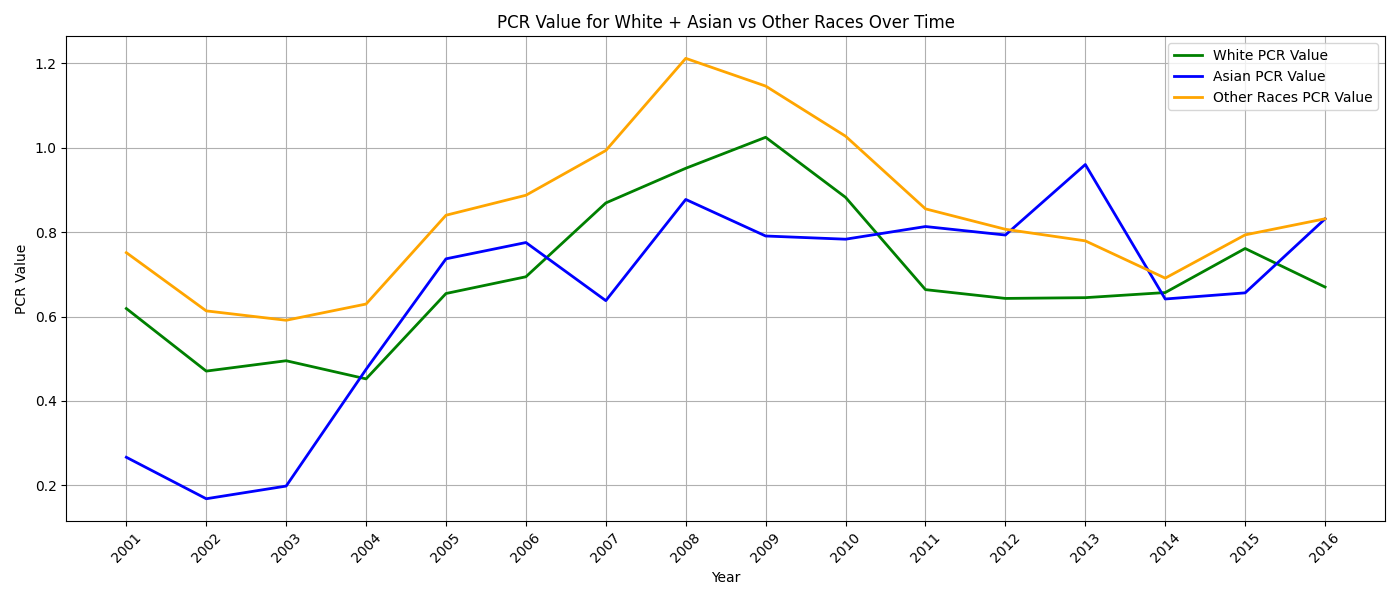
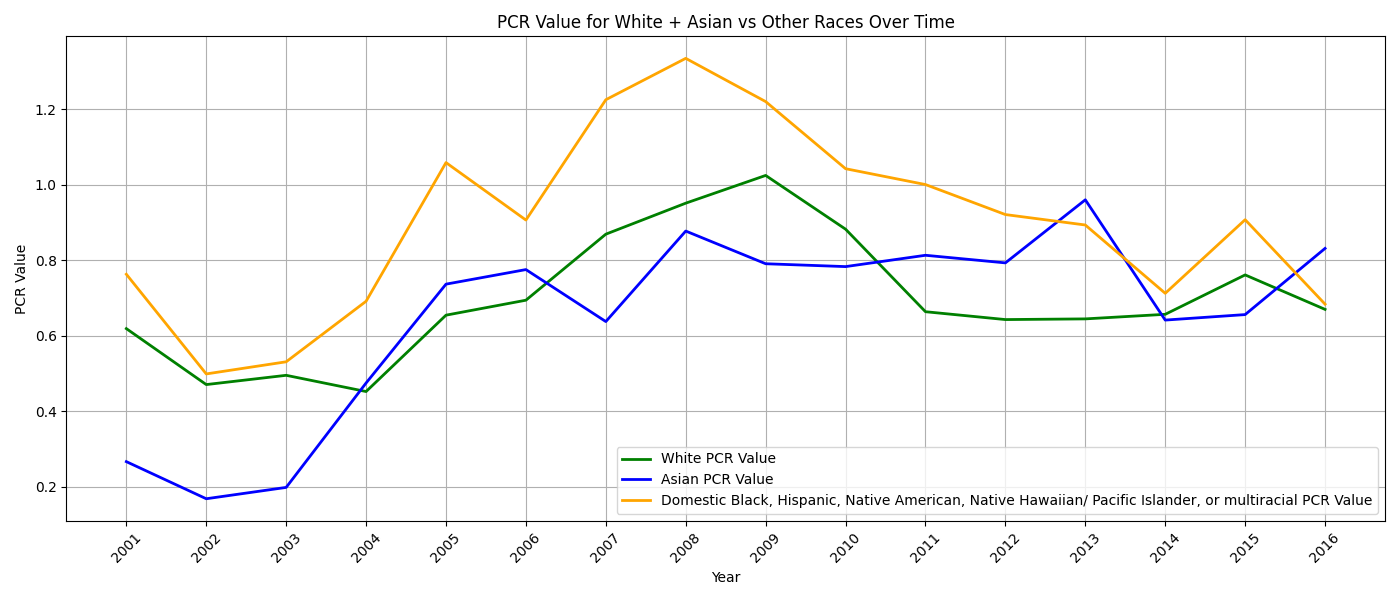
Fixed graph names and  fixed graphical issue with graphs

diff --git a/EXCEL CLEANER/PhD award v2.py b/EXCEL CLEANER/PhD award v2.py
@@ -19,7 +19,7 @@ unitid_list = [
     194824, 196130, 196097, 199102, 199120, 199847, 200280, 201885,
     203517, 204857, 206084, 207388, 209542, 209551, 209807, 211273,
     211440, 213543, 214777, 215293, 227757, 230728, 232982, 233921,
-    234076, 231624, 236948, 240444
+    234076, 231624, 236948, 240444#
 ]
 
 # Filter by AWLEVEL and UNITID
@@ -31,7 +31,7 @@ filtered_df = df_trimmed[df_trimmed['AWLEVEL'] == 17][[
     'dr_ft_men_all_races_v', 'dr_ft_wmen_all_races_v', 'dr_ft_tot_all_races_v',
     'ma_ft_frst_tot_all_races_v', 'dr_ft_frst_tot_all_races_v', 
 
-    #Gender Breakdown- First time enrollment 
+    #Sex Breakdown- First time enrollment 
     'ft_frst_men_all_races_v', 'ft_frst_wmen_all_races_v',
      
      # Racial/Ethnic breakdowns - Total Enrollment
@@ -155,7 +155,7 @@ print(average_PCR)
 ax.set_xticks(range(2000, 2017))
 ax.set_xticklabels(range(2000, 2017), rotation=45)
 
-
+'''
 # Move the legend outside the plot and scale it down
 ax.legend(
     loc='center left', 
@@ -164,7 +164,7 @@ ax.legend(
     ncol=3,  # Multiple columns for compactness
     title='UNITIDs'
 )
-
+'''
 
 # Titles and labels
 ax.set_title('PCR Value over Years')
@@ -173,7 +173,8 @@ ax.set_ylabel('PCR Value')
 ax.grid(True)
 
 # Adjust layout to prevent overlapping
-plt.tight_layout(rect=[0, 0, 0.85, 1])  # Add space on the right for the legend
+# plt.tight_layout(rect=[0, 0, 0.85, 1])  # Add space on the right for the legend
+plt.tight_layout()
 plt.savefig('/Users/co25936/Desktop/PER/IPEDS/PCR_Value.png')
 plt.show()
 
@@ -212,7 +213,8 @@ ax.set_ylabel('Retention')
 ax.grid(True)
 
 # Adjust layout to prevent overlapping
-plt.tight_layout(rect=[0, 0, 0.85, 1])  # Add space on the right for the legend
+# plt.tight_layout(rect=[0, 0, 0.85, 1])  # Add space on the right for the legend
+plt.tight_layout()
 plt.savefig('/Users/co25936/Desktop/PER/IPEDS/Retention_Value.png')
 plt.show()
 
@@ -230,7 +232,7 @@ for index, row in complete_df.iterrows():
     year = row['Year']
     unitid = row['UNITID']
 
-    # Graduation by gender
+    # Graduation by sex
     grad_m_5 = safe_extract(complete_df[(complete_df['UNITID'] == unitid) & (complete_df['Year'] == year + 5)]['CTOTALM'].values)
     grad_m_6 = safe_extract(complete_df[(complete_df['UNITID'] == unitid) & (complete_df['Year'] == year + 6)]['CTOTALM'].values)
     grad_m_7 = safe_extract(complete_df[(complete_df['UNITID'] == unitid) & (complete_df['Year'] == year + 7)]['CTOTALM'].values)
@@ -239,7 +241,7 @@ for index, row in complete_df.iterrows():
     grad_f_6 = safe_extract(complete_df[(complete_df['UNITID'] == unitid) & (complete_df['Year'] == year + 6)]['CTOTALW'].values)
     grad_f_7 = safe_extract(complete_df[(complete_df['UNITID'] == unitid) & (complete_df['Year'] == year + 7)]['CTOTALW'].values)
 
-    # First-year full-time enrollment by gender
+    # First-year full-time enrollment by sex
     first_m1_m = safe_extract(complete_df[(complete_df['UNITID'] == unitid) & (complete_df['Year'] == year - 1)]['ft_frst_men_all_races_v'].values)
     first_m_m = safe_extract(complete_df[(complete_df['UNITID'] == unitid) & (complete_df['Year'] == year)]['ft_frst_men_all_races_v'].values)
     first_p1_m = safe_extract(complete_df[(complete_df['UNITID'] == unitid) & (complete_df['Year'] == year + 1)]['ft_frst_men_all_races_v'].values)
@@ -280,7 +282,7 @@ ax.plot(avg_PCR_female.index, avg_PCR_female.values, label='Female PCR Value', c
 ax.set_xticks(range(2001, 2017))
 ax.set_xticklabels(range(2001, 2017), rotation=45)
 
-ax.set_title("PCR Value by Gender Over Time")
+ax.set_title("PCR Value by Sex Over Time")
 ax.set_xlabel("Year")
 ax.set_ylabel("PCR Value")
 ax.grid(True)
@@ -352,20 +354,20 @@ plt.savefig('/Users/co25936/Desktop/PER/IPEDS/PCR_Value_Doctoral.png')
 plt.show()
 
 
-# --- 3. MASTER'S VS DOCTORAL DEGREE BY GENDER (2017+) ---
+# --- 3. MASTER'S VS DOCTORAL DEGREE BY Sex (2017+) ---
 
 # Filter for 2017 and beyond
-grad_gender_df = df[(df['Year'] >= 2017)]
+grad_sex_df = df[(df['Year'] >= 2017)]
 
 # Group by year and sum across institutions
-grouped = grad_gender_df.groupby('Year').agg({
+grouped = grad_sex_df.groupby('Year').agg({
     'ma_ft_men_all_races_v': 'sum',
     'ma_ft_wmen_all_races_v': 'sum',
     'dr_ft_men_all_races_v': 'sum',
     'dr_ft_wmen_all_races_v': 'sum'
 }).reset_index()
 
-# --- PLOT: Master vs Doctor by Gender ---
+# --- PLOT: Master vs Doctor by Sex ---
 
 fig, ax = plt.subplots(figsize=(14, 6))
 
@@ -374,21 +376,21 @@ ax.plot(grouped['Year'], grouped['ma_ft_wmen_all_races_v'], label='Masters Women
 ax.plot(grouped['Year'], grouped['dr_ft_men_all_races_v'], label='Doctoral Men', color='green', marker='x')
 ax.plot(grouped['Year'], grouped['dr_ft_wmen_all_races_v'], label='Doctoral Women', color='orange', marker='x')
 
-ax.set_title("Graduate Enrollment by Gender and Degree Level (2017+)")
+ax.set_title("Graduate Enrollment by Sex and Degree Level (2017+)")
 ax.set_xlabel("Year")
 ax.set_ylabel("Number of Students")
 ax.legend()
 ax.grid(True)
 
 plt.tight_layout()
-plt.savefig('/Users/co25936/Desktop/PER/IPEDS/Grad_Enrollment_By_Gender_And_Degree.png')
+plt.savefig('/Users/co25936/Desktop/PER/IPEDS/Grad_Enrollment_By_Sex_And_Degree.png')
 plt.show()
 
 
 # --- 4. PCR VALUES FOR RACE ---
 # White vs Non-white (separated by graduation rates)
 
-# newer version that might work better (FIXES RACE PCR VALUES BUT CHANGES PREVIOUS PCR VALUES FOR GENDERg)
+# newer version that might work better (FIXES RACE PCR VALUES BUT CHANGES PREVIOUS PCR VALUES FOR SEX)
 def safe_extract(arr):
     return arr[0] if len(arr) > 0 and not pd.isna(arr[0]) else 0
 
@@ -601,8 +603,150 @@ ax.grid(True)
 ax.legend()
 
 plt.tight_layout()
-plt.savefig('/Users/co25936/Desktop/PER/IPEDS/PCR_Value_White_Asian_vs_Other.png')
+plt.savefig('/Users/co25936/Desktop/PER/IPEDS/PCR_Value_White_Asian_vs_Non_resident_and_other_domestic_racial_groups.png')
 plt.show()
+
+# PCR VALUE FOR WHITE, ASIAN vs OTHER minus Non-RESIDENT
+complete_df['PCR_value_white_asian'] = np.nan
+complete_df['PCR_value_white'] = np.nan
+complete_df['PCR_value_asian'] = np.nan
+complete_df['PCR_value_other_races'] = np.nan
+
+for index, row in complete_df.iterrows():
+    year = row['Year']
+    unitid = row['UNITID']
+    
+    # White first-time full-time enrollment (3-year window)
+    white_m1 = safe_extract(complete_df[(complete_df['UNITID'] == unitid) & (complete_df['Year'] == year - 1)]['ft_frst_tot_white_v'].values)
+    white_0  = safe_extract(complete_df[(complete_df['UNITID'] == unitid) & (complete_df['Year'] == year)]['ft_frst_tot_white_v'].values)
+    white_p1 = safe_extract(complete_df[(complete_df['UNITID'] == unitid) & (complete_df['Year'] == year + 1)]['ft_frst_tot_white_v'].values)
+
+    # Asian full time enrollment 
+    asian_m1 = safe_extract(complete_df[(complete_df['UNITID'] == unitid) & (complete_df['Year'] == year - 1)]['ft_frst_tot_asian_v'].values)
+    asian_0  = safe_extract(complete_df[(complete_df['UNITID'] == unitid) & (complete_df['Year'] == year)]['ft_frst_tot_asian_v'].values)
+    asian_p1 = safe_extract(complete_df[(complete_df['UNITID'] == unitid) & (complete_df['Year'] == year + 1)]['ft_frst_tot_asian_v'].values)
+
+    #non resident full time enrollment
+    non_res_m1 = safe_extract(complete_df[(complete_df['UNITID'] == unitid) & (complete_df['Year'] == year - 1)]['ft_frst_tot_forgn_v'].values)
+    non_res_0 = safe_extract(complete_df[(complete_df['UNITID'] == unitid) & (complete_df['Year'] == year)]['ft_frst_tot_forgn_v'].values)
+    non_res_p1 = safe_extract(complete_df[(complete_df['UNITID'] == unitid) & (complete_df['Year'] == year + 1)]['ft_frst_tot_forgn_v'].values)
+
+    # Other races first-time full-time = total - white - asian
+    total_m1 = safe_extract(complete_df[(complete_df['UNITID'] == unitid) & (complete_df['Year'] == year - 1)]['ft_frst_tot_all_races_v'].values)
+    total_0  = safe_extract(complete_df[(complete_df['UNITID'] == unitid) & (complete_df['Year'] == year)]['ft_frst_tot_all_races_v'].values)
+    total_p1 = safe_extract(complete_df[(complete_df['UNITID'] == unitid) & (complete_df['Year'] == year + 1)]['ft_frst_tot_all_races_v'].values)
+
+    other_races_m1 = total_m1 - (white_m1+asian_m1+non_res_m1) if pd.notna(total_m1) and pd.notna(white_m1) else np.nan
+    other_races_0  = total_0  - (white_0+asian_0+non_res_0)  if pd.notna(total_0)  and pd.notna(white_0)  else np.nan
+    other_races_p1 = total_p1 - (white_p1+asian_p1+non_res_p1) if pd.notna(total_p1) and pd.notna(white_p1) else np.nan
+
+    # Graduation totals (White + Asian and Other Races)
+    grad_5 = safe_extract(complete_df[(complete_df['UNITID'] == unitid) & (complete_df['Year'] == year + 5)]['CTOTALT'].values)
+    grad_6 = safe_extract(complete_df[(complete_df['UNITID'] == unitid) & (complete_df['Year'] == year + 6)]['CTOTALT'].values)
+    grad_7 = safe_extract(complete_df[(complete_df['UNITID'] == unitid) & (complete_df['Year'] == year + 7)]['CTOTALT'].values)
+    grad_total = np.nansum([grad_5, grad_6, grad_7])
+
+    # White + Asian graduation (CWHITT + CRACE21_STD + CASIAT)
+    white_asian_grad_5 = safe_extract(complete_df[(complete_df['UNITID'] == unitid) & (complete_df['Year'] == year + 5)]['CWHITT'].values) + \
+                         safe_extract(complete_df[(complete_df['UNITID'] == unitid) & (complete_df['Year'] == year + 5)]['CRACE21_STD'].values)+ \
+                         safe_extract(complete_df[(complete_df['UNITID'] == unitid) & (complete_df['Year'] == year + 5)]['CRACE22_STD'].values) + \
+                         safe_extract(complete_df[(complete_df['UNITID'] == unitid) & (complete_df['Year'] == year + 5)]['CASIAT'].values)
+
+    white_asian_grad_6 = safe_extract(complete_df[(complete_df['UNITID'] == unitid) & (complete_df['Year'] == year + 6)]['CWHITT'].values) + \
+                         safe_extract(complete_df[(complete_df['UNITID'] == unitid) & (complete_df['Year'] == year + 6)]['CRACE21_STD'].values)+ \
+                         safe_extract(complete_df[(complete_df['UNITID'] == unitid) & (complete_df['Year'] == year + 6)]['CRACE22_STD'].values) + \
+                         safe_extract(complete_df[(complete_df['UNITID'] == unitid) & (complete_df['Year'] == year + 6)]['CASIAT'].values)
+
+    white_asian_grad_7 = safe_extract(complete_df[(complete_df['UNITID'] == unitid) & (complete_df['Year'] == year + 7)]['CWHITT'].values) + \
+                         safe_extract(complete_df[(complete_df['UNITID'] == unitid) & (complete_df['Year'] == year + 7)]['CRACE21_STD'].values)+ \
+                         safe_extract(complete_df[(complete_df['UNITID'] == unitid) & (complete_df['Year'] == year + 7)]['CRACE22_STD'].values) + \
+                         safe_extract(complete_df[(complete_df['UNITID'] == unitid) & (complete_df['Year'] == year + 7)]['CASIAT'].values)
+    
+    # White graduation (using CWHITT + CRACE22_STD)
+    white_grad_5 = safe_extract(complete_df[(complete_df['UNITID'] == unitid) & (complete_df['Year'] == year + 5)]['CWHITT'].values) + \
+                   safe_extract(complete_df[(complete_df['UNITID'] == unitid) & (complete_df['Year'] == year + 5)]['CRACE22_STD'].values)
+    white_grad_6 = safe_extract(complete_df[(complete_df['UNITID'] == unitid) & (complete_df['Year'] == year + 6)]['CWHITT'].values) + \
+                   safe_extract(complete_df[(complete_df['UNITID'] == unitid) & (complete_df['Year'] == year + 6)]['CRACE22_STD'].values)
+    white_grad_7 = safe_extract(complete_df[(complete_df['UNITID'] == unitid) & (complete_df['Year'] == year + 7)]['CWHITT'].values) + \
+                   safe_extract(complete_df[(complete_df['UNITID'] == unitid) & (complete_df['Year'] == year + 7)]['CRACE22_STD'].values)
+    
+    #Asian graduation
+    asian_grad_5 = safe_extract(complete_df[(complete_df['UNITID'] == unitid) & (complete_df['Year'] == year + 5)]['CASIAT'].values) + \
+                   safe_extract(complete_df[(complete_df['UNITID'] == unitid) & (complete_df['Year'] == year + 5)]['CRACE21_STD'].values)
+    asian_grad_6 = safe_extract(complete_df[(complete_df['UNITID'] == unitid) & (complete_df['Year'] == year + 6)]['CASIAT'].values) + \
+                   safe_extract(complete_df[(complete_df['UNITID'] == unitid) & (complete_df['Year'] == year + 6)]['CRACE21_STD'].values)
+    asian_grad_7 = safe_extract(complete_df[(complete_df['UNITID'] == unitid) & (complete_df['Year'] == year + 7)]['CASIAT'].values) + \
+                   safe_extract(complete_df[(complete_df['UNITID'] == unitid) & (complete_df['Year'] == year + 7)]['CRACE21_STD'].values)
+    
+    #Non-res grad
+    non_resident_grad_5 = safe_extract(complete_df[(complete_df['UNITID'] == unitid) & (complete_df['Year'] == year + 5)]['CRACE17_STD'].values) + \
+                           safe_extract(complete_df[(complete_df['UNITID'] == unitid) & (complete_df['Year'] == year + 5)]['CNRALT'].values)
+    non_resident_grad_6 = safe_extract(complete_df[(complete_df['UNITID'] == unitid) & (complete_df['Year'] == year + 6)]['CRACE17_STD'].values) + \
+                           safe_extract(complete_df[(complete_df['UNITID'] == unitid) & (complete_df['Year'] == year + 6)]['CNRALT'].values)
+    non_resident_grad_7 = safe_extract(complete_df[(complete_df['UNITID'] == unitid) & (complete_df['Year'] == year + 7)]['CRACE17_STD'].values) + \
+                           safe_extract(complete_df[(complete_df['UNITID'] == unitid) & (complete_df['Year'] == year + 7)]['CNRALT'].values)
+
+    #combine into one grad
+    wan_grad_5 = white_grad_5 + asian_grad_5 + non_resident_grad_5
+    wan_grad_6 = white_grad_6 + asian_grad_6 + non_resident_grad_6
+    wan_grad_7 = white_grad_7 + asian_grad_7 + non_resident_grad_7
+
+    # Other Races graduation = total - white - asian - non-resident graduation
+    other_races_grad_5 = grad_5 - (white_grad_5 + asian_grad_5 + non_resident_grad_5)
+    other_races_grad_6 = grad_6 - (white_grad_6 + asian_grad_6 + non_resident_grad_6)
+    other_races_grad_7 = grad_7 - (white_grad_7 + asian_grad_7 + non_resident_grad_7)
+
+    # Denominators (sum of first-time full-time enrollments)
+    denom_white = np.nansum ([white_m1, white_0, white_p1])
+    denom_asian = np.nansum([asian_m1, asian_0, asian_p1])
+    denom_other_races = np.nansum([other_races_m1, other_races_0, other_races_p1])
+
+    # PCR Values calculation
+    if denom_white_asian > 0:
+        complete_df.at[index, 'PCR_value_white_asian'] = (white_asian_grad_5 + white_asian_grad_6 + white_asian_grad_7) / denom_white_asian
+
+    if denom_white > 0:
+        complete_df.at[index, 'PCR_value_white'] = (white_grad_5 + white_grad_6 + white_grad_7) / denom_white
+        
+    if denom_asian > 0:
+        complete_df.at[index, 'PCR_value_asian'] = (asian_grad_5 + asian_grad_6 + asian_grad_7) / denom_asian
+
+    if denom_other_races > 0:
+        complete_df.at[index, 'PCR_value_other_races'] = (other_races_grad_5 + other_races_grad_6 + other_races_grad_7) / denom_other_races
+
+# --- PLOT: PCR VALUE for White + Asian vs Other Races ---
+fig, ax = plt.subplots(figsize=(14, 6))
+
+# Averages for White + Asian and Other Races PCR Values (filtered to 2001–2016)
+years_to_plot = list(range(2001, 2017))
+
+avg_PCR_white_asian = complete_df.groupby('Year')['PCR_value_white_asian'].mean().loc[years_to_plot]
+avg_PCR_other_races = complete_df.groupby('Year')['PCR_value_other_races'].mean().loc[years_to_plot]
+avg_PCR_white = complete_df.groupby('Year')['PCR_value_white'].mean().loc[years_to_plot]
+avg_PCR_asian = complete_df.groupby('Year')['PCR_value_asian'].mean().loc[years_to_plot]
+
+print("white_asain PCR", avg_PCR_white_asian)
+
+# Plotting PCR Values
+#  Line commented out combines Asian and White into a singular line
+# ax.plot(avg_PCR_white_asian.index, avg_PCR_white_asian.values, label='White + Asian PCR Value', color='green', linewidth=2)
+ax.plot(avg_PCR_white.index, avg_PCR_white.values, label='White PCR Value', color='green', linewidth=2)
+ax.plot(avg_PCR_asian.index, avg_PCR_asian.values, label='Asian PCR Value', color='blue', linewidth=2)
+ax.plot(avg_PCR_other_races.index, avg_PCR_other_races.values, label='Domestic Black, Hispanic, Native American, Native Hawaiian/ Pacific Islander, or multiracial PCR Value', color='orange', linewidth=2)
+
+# Axis and labels
+ax.set_xticks(years_to_plot)
+ax.set_xticklabels(years_to_plot, rotation=45)
+ax.set_title("PCR Value for White + Asian vs Domestic Black, Hispanic, Native American, Native Hawaiian/ Pacific Islander, or Multiracial Over Time")
+ax.set_xlabel("Year")
+ax.set_ylabel("PCR Value")
+ax.grid(True)
+ax.legend()
+
+plt.tight_layout()
+plt.savefig('/Users/co25936/Desktop/PER/IPEDS/PCR_Value_White_Asian_vs_Domestic_Black_Hispanic_Native American_Native Hawaiian_Pacific_Islander_or_multiracial_PCR_Value.png')
+plt.show()
+
 
 # --- PCR VALUE for White, Asian, Non-Resident vs Other Races ---
 complete_df['PCR_value_white_asian_non'] = np.nan
